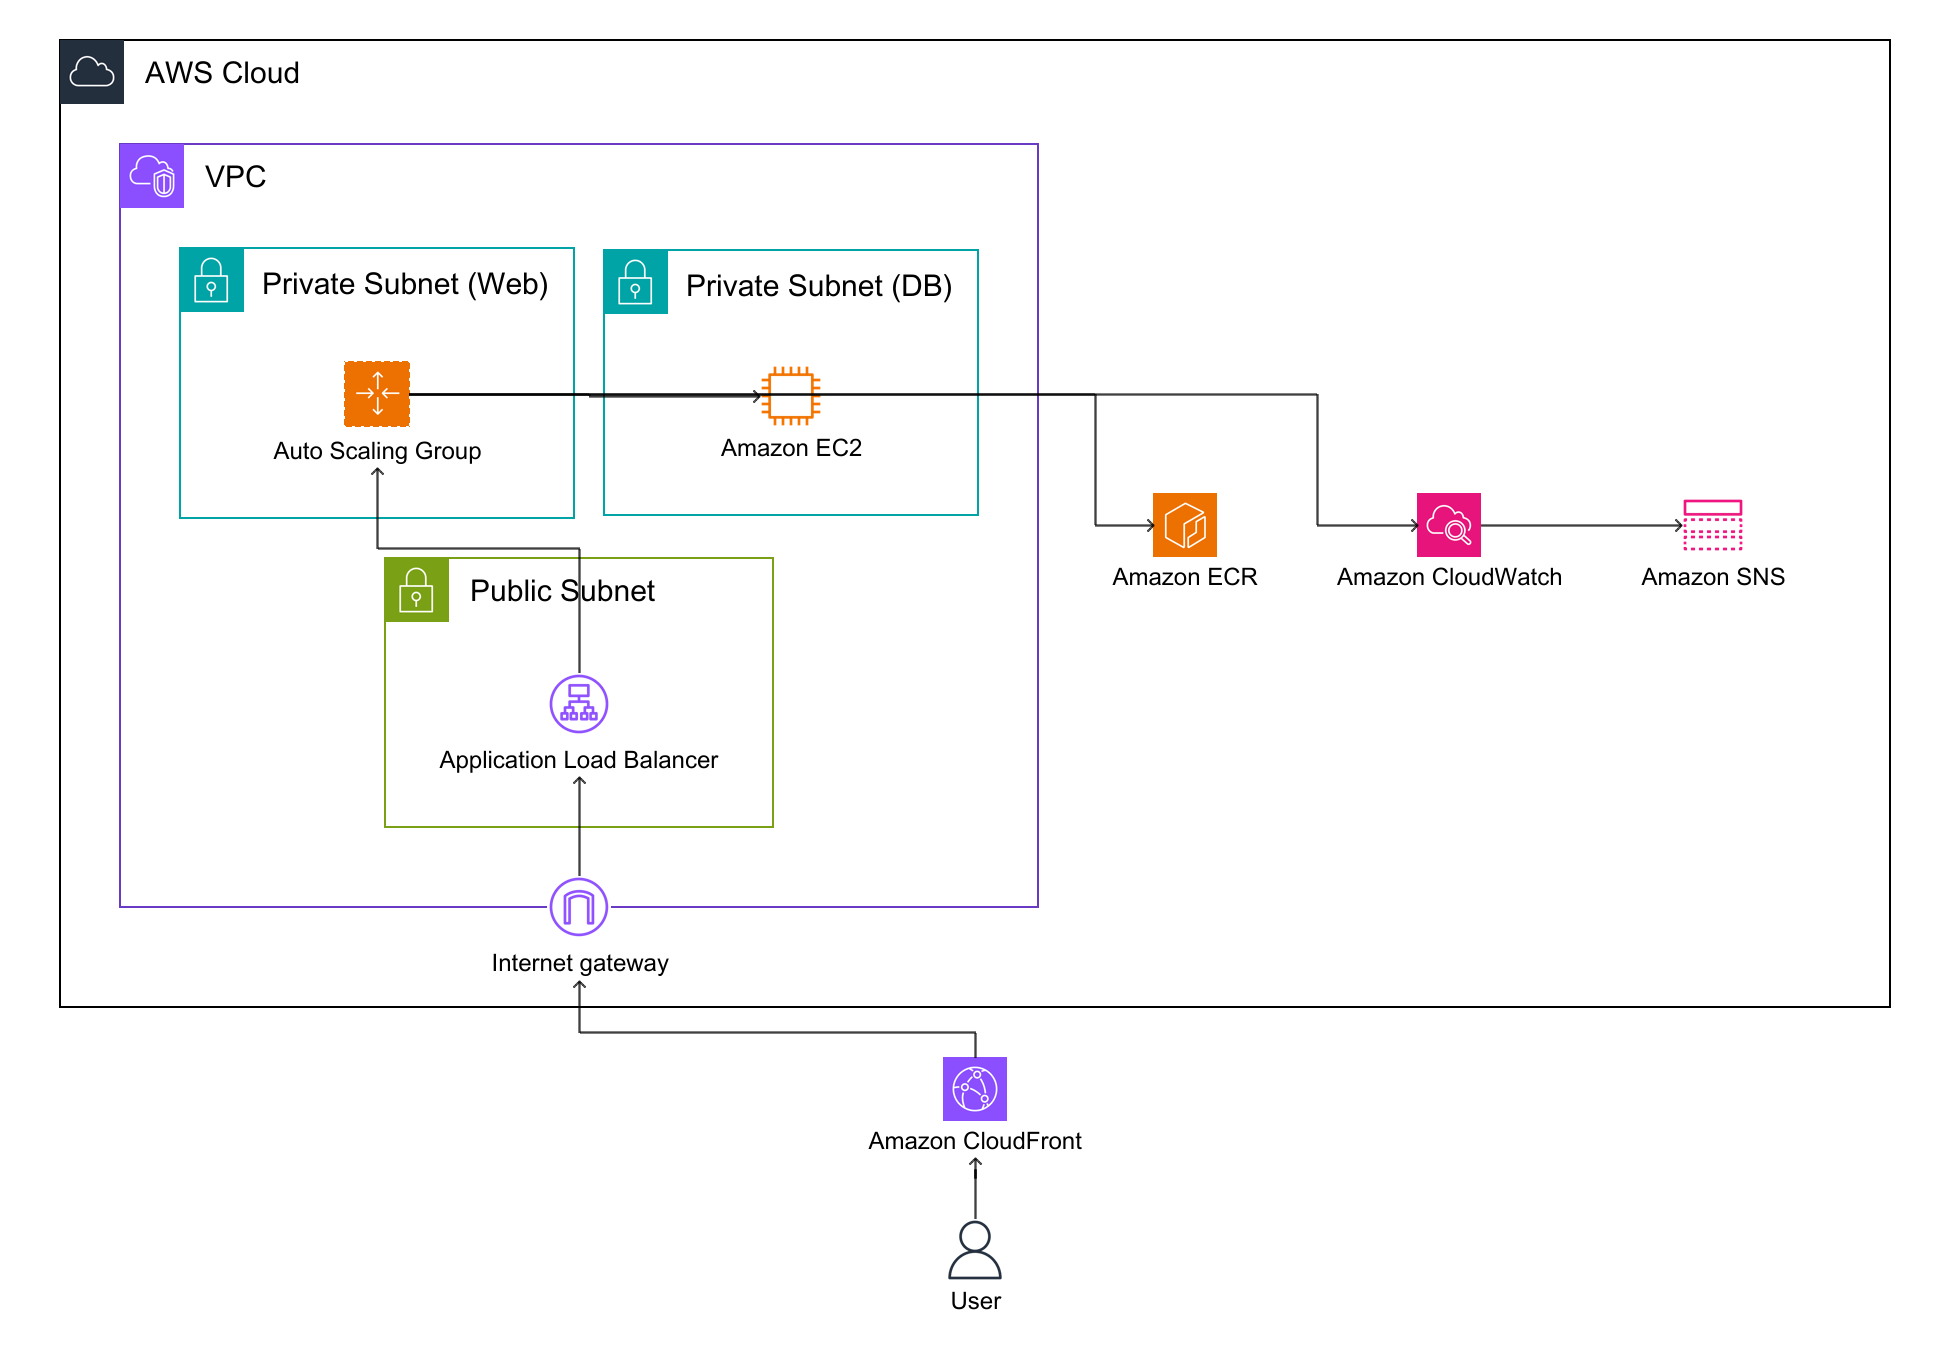
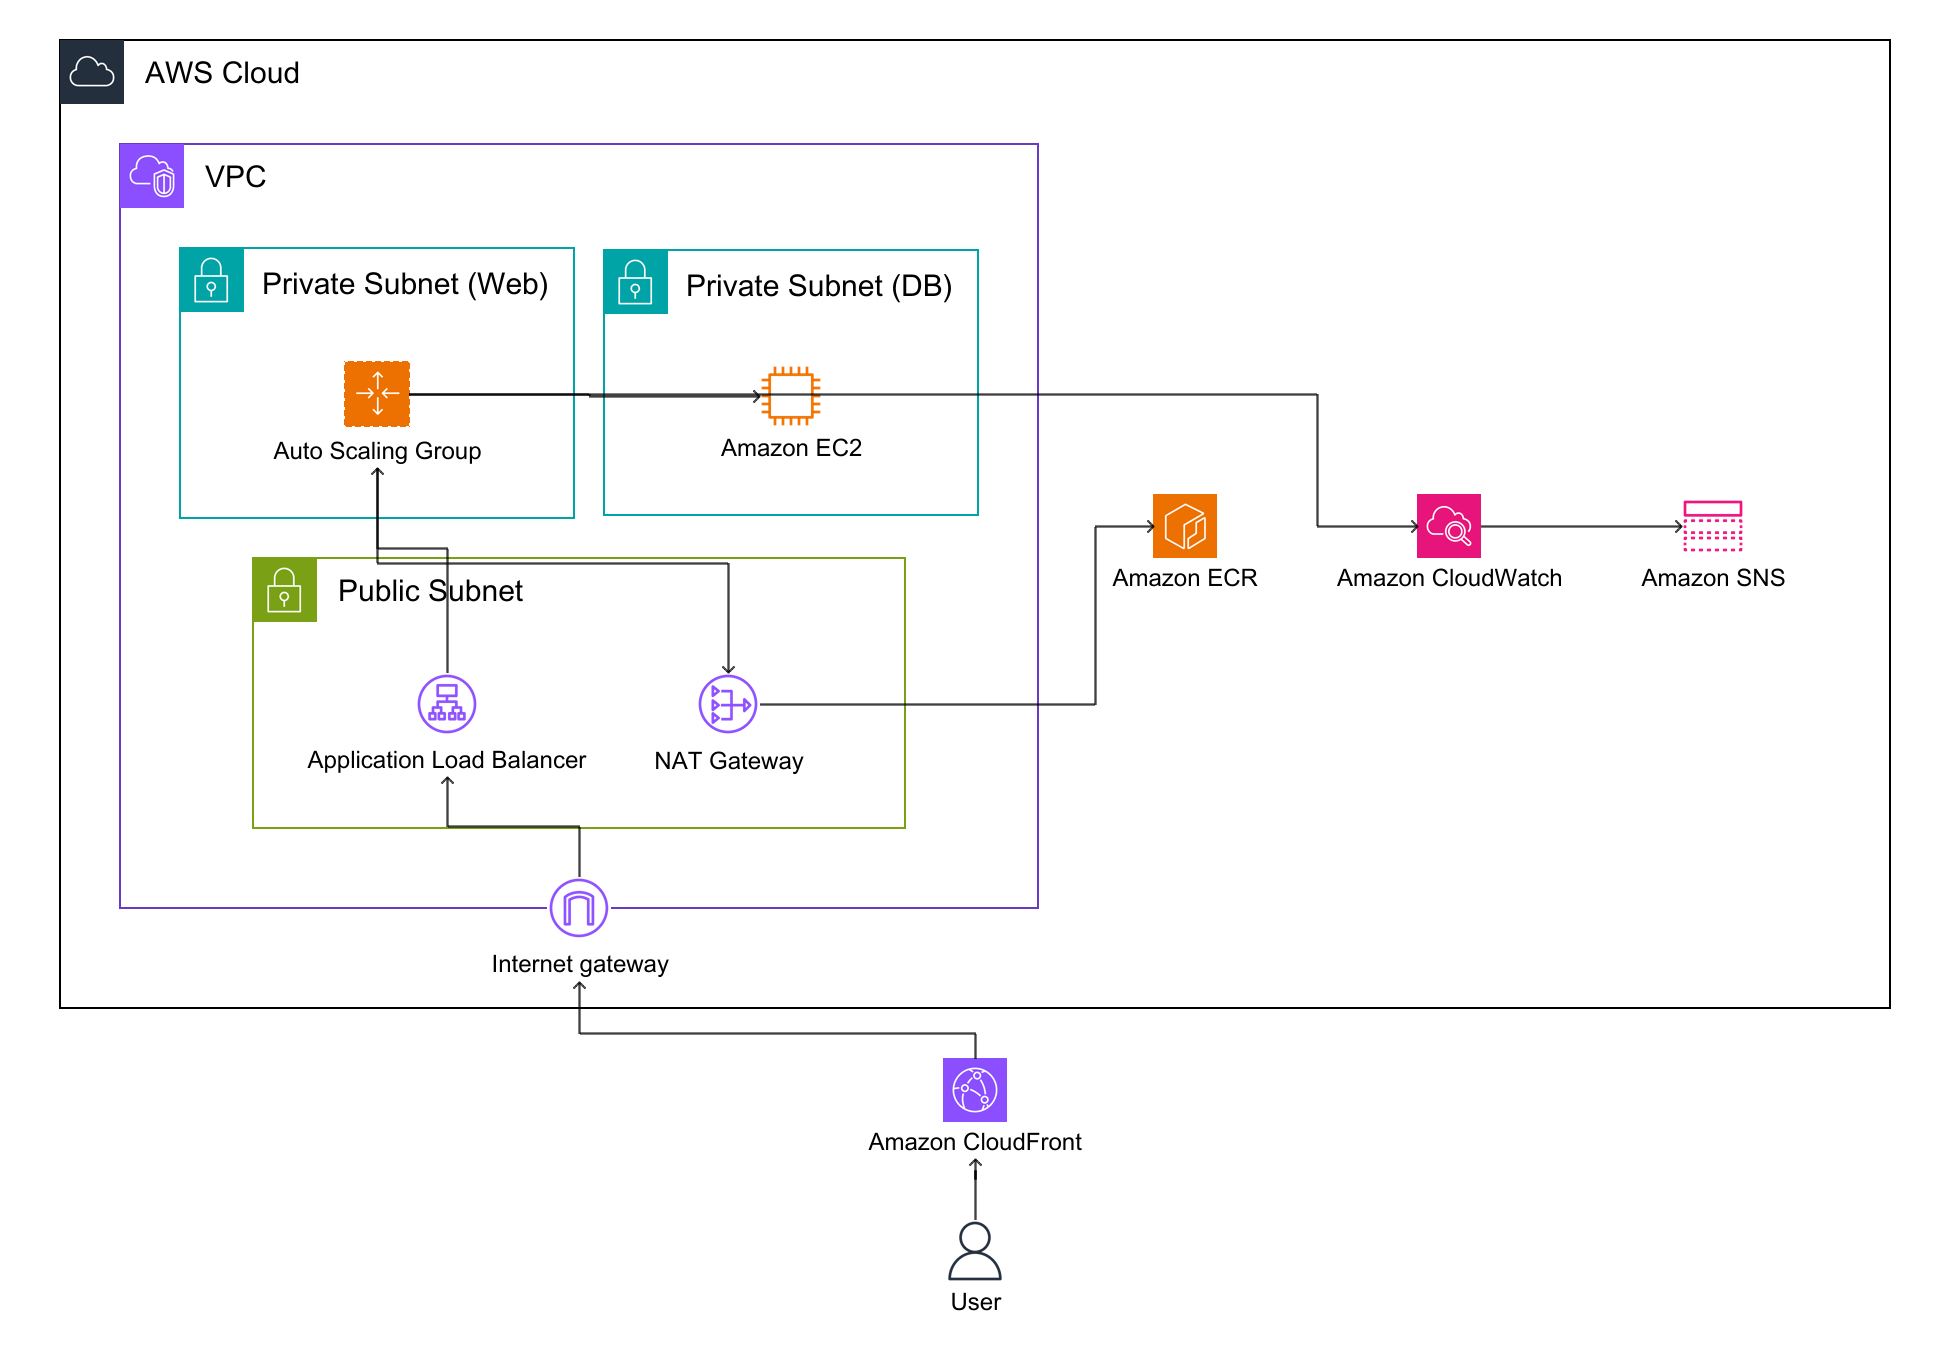
feat(infra): replace VPC endpoints with NAT Gateway, redraw diagrams, update costs

diff --git a/README.md b/README.md
@@ -1,6 +1,6 @@
 # Option 3: 1 EC2 Web ASG + 1 EC2 Dedicated DB Separated
 
-Independent infrastructure and application source code for **Option 3: Multi-Tier Architecture with Auto Scaling Web EC2 and Dedicated Database EC2**.
+Independent infrastructure and application source code for **Option 3: Multi-Tier Architecture with Auto Scaling Web EC2, Dedicated Database EC2, and AWS NAT Gateway**.
 
 ## 1. Architecture Overview
 ![Architecture](infra/architecture_diagram.png)
@@ -8,6 +8,7 @@ Independent infrastructure and application source code for **Option 3: Multi-Tie
 ### Key Architectural Highlights:
 - **CloudFront CDN Edge Caching:** Optimized caching for static assets (`/_next/static/*`, `/static/*`), offloading 80–90% of requests from origin servers, lowering TTFB, and accelerating global page load times.
 - **Application Load Balancer (ALB):** Spans Multi-AZ Public Subnets, balancing HTTP/HTTPS traffic with health checking on `/api/health`.
+- **AWS NAT Gateway:** Located in the Public Subnet with Elastic IP, allowing private web and database instances to safely access external resources and AWS APIs without exposing ports.
 - **Web Auto Scaling Group (ASG):** Resides securely within **Private Subnets (AZ1 & AZ2)**, automatically scaling EC2 instances based on CPU utilization (70% target tracking).
 - **Dedicated PostgreSQL 16 EC2:** Located in a **Private Subnet**, protected by a dedicated Security Group that only permits inbound port 5432 traffic from the Web Security Group.
 - **Zero-Downtime Rolling Update:** Integrated `aws autoscaling start-instance-refresh` in CI/CD updates web container versions without impacting the database tier or interrupting user service.
@@ -21,23 +22,22 @@ Independent infrastructure and application source code for **Option 3: Multi-Tie
 ### A. Component Cost Breakdown (Infracost CLI Verified)
 | CloudFormation Module / Component | AWS Resource Type | Monthly Cost (USD) | Notes |
 | :--- | :--- | :--- | :--- |
+| **AWS NAT Gateway** | `AWS::EC2::NatGateway` | **$32.85** | Managed NAT Gateway in Public Subnet (0.0.0.0/0 egress) |
 | **Application Load Balancer (ALB)** | `AWS::ElasticLoadBalancingV2::LoadBalancer` | **$16.43** | Multi-AZ load balancing and health checks |
 | **Dedicated DB EC2 Server** | `AWS::EC2::Instance` (`t3.micro` + 30GB EBS) | **$10.49** | Isolated compute & persistent storage for PostgreSQL |
-| **Web Compute (Auto Scaling Group)** | `AWS::AutoScaling::AutoScalingGroup` (`t3.micro`) | **$9.49** | Stateless web application compute |
+| **Web Compute (Auto Scaling Group)** | `AWS::AutoScaling::AutoScalingGroup` (`t3.micro`) | **$9.49** | Stateless web application compute tier |
 | **Secrets & Operational Monitoring** | `SecretsManager`, `CloudWatch`, `SNS` | **$0.30** | Dual secrets (DB + App) and multi-tier alarms |
-| **Subtotal (Decoupled 2-Tier Application)** | `infra/modules/app.yaml` | **$36.71 / mo** | ~930,000 VND / month |
-| **Private VPC Interface Endpoints (Optional)** | `AWS::EC2::VPCEndpoint` (7 endpoints) | **$102.20** | SSM, ECR, CloudWatch Logs in Private Subnets |
-| **Total (Full Enterprise Isolated Architecture)** | `infra/modules/` | **$138.91 / mo** | ~3,515,000 VND / month |
+| **Total Monthly Cost** | `infra/modules/` | **$69.56 / mo** | ~1,760,000 VND / month |
 
-### B. Cost by Purchasing Option & Architecture Mode
-| Purchasing Model / Mode | Web Compute | DB Compute + EBS | ALB & Support | Total (Lean Mode)* | Total (Full Isolated) | Approx. Local Currency (Lean) |
-| :--- | :--- | :--- | :--- | :--- | :--- | :--- |
-| **On-Demand (Default)** | $9.49 | $10.49 | $16.73 | **$36.71 / mo** | **$138.91 / mo** | ~930,000 VND |
-| **1-Year Savings Plan / RI** | $5.98 | $6.98 | $16.73 | **$29.69 / mo** *(19% off)* | **$131.89 / mo** | ~752,000 VND |
-| **3-Year Savings Plan / RI** | $3.79 | $4.79 | $16.73 | **$25.31 / mo** *(31% off)* | **$127.51 / mo** | ~641,000 VND |
-| **Hybrid (Web Spot + DB 1-Yr RI)** | $2.84 | $6.98 | $16.73 | **$26.55 / mo** *(28% off)* | **$128.75 / mo** | ~673,000 VND |
+*(Tiết kiệm **$69.35 / tháng** so với mô hình cũ sử dụng 7 VPC Interface Endpoints $102.20/tháng).*
 
-*\*Lean Mode: Compute + ALB + CloudFront routing without dedicated VPC Interface Endpoints ($102.20/mo).*
+### B. Cost by Purchasing Option & Commitment
+| Purchasing Model | Web Compute | DB Compute + EBS | NAT Gateway & ALB | Total Monthly Cost | Approx. Local Currency (VND) |
+| :--- | :--- | :--- | :--- | :--- | :--- |
+| **On-Demand (Default)** | $9.49 | $10.49 | $49.58 | **$69.56 / mo** | ~1,760,000 VND |
+| **1-Year Savings Plan / RI** | $5.98 | $6.98 | $49.58 | **$62.54 / mo** *(10% savings)* | ~1,580,000 VND |
+| **3-Year Savings Plan / RI** | $3.79 | $4.79 | $49.58 | **$58.16 / mo** *(16% savings)* | ~1,470,000 VND |
+| **Hybrid (Web Spot + DB 1-Yr RI)** | $2.84 | $6.98 | $49.58 | **$59.40 / mo** *(15% savings)* | ~1,500,000 VND |
 
 ## 3. Disaster Recovery & Recovery Time (MTTR)
 
